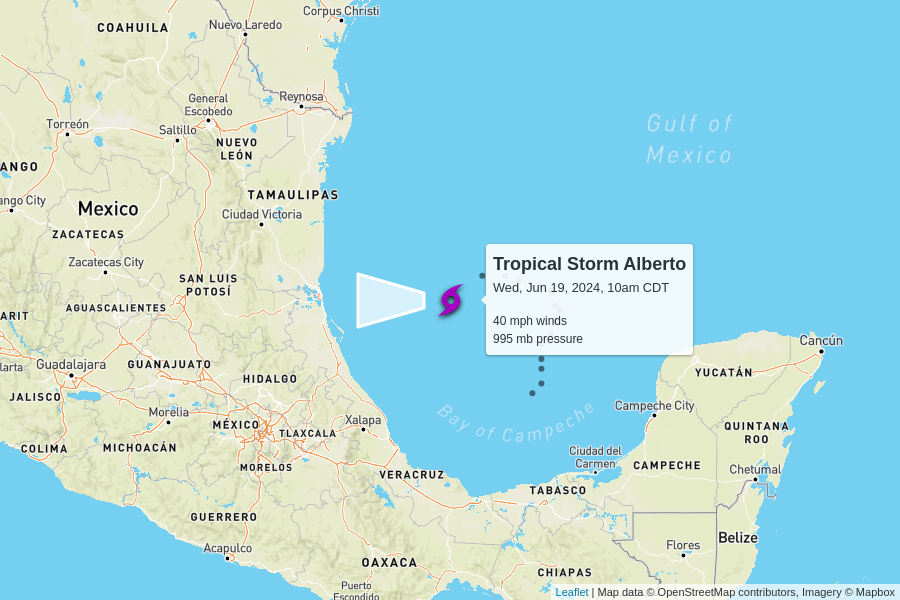
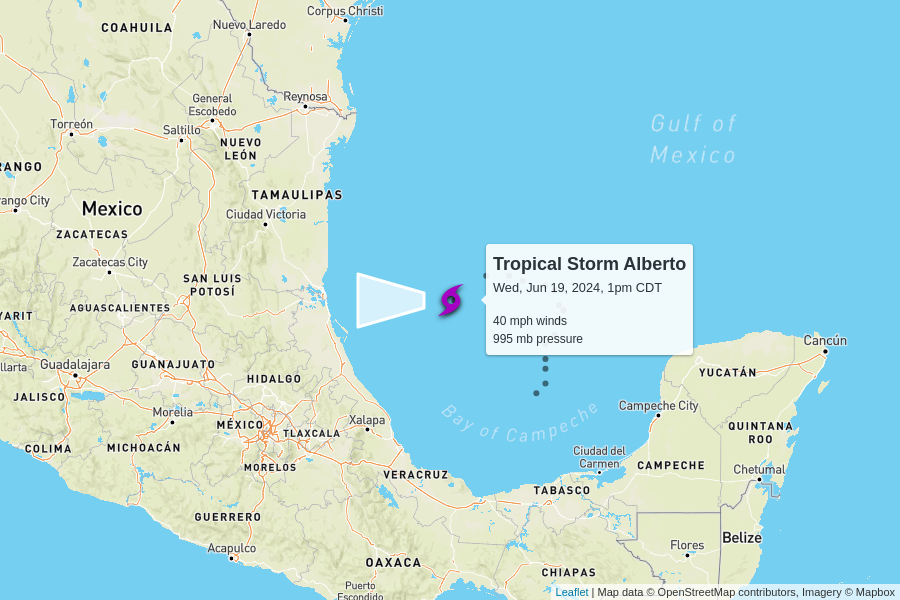
automatic update

diff --git a/docs/index.html b/docs/index.html
@@ -102,7 +102,7 @@
         <td colspan="6" class="storm category-0" >
           <h2>
             Tropical Storm Alberto
-            <p class="updated">last updated <span data-time>2024-06-19T15:00:00.000Z</span></p>
+            <p class="updated">last updated <span data-time>2024-06-19T18:00:00.000Z</span></p>
           </h2>
         </td>
       </tr>
@@ -118,7 +118,7 @@
       <tr>
         <td class="spacer"></td>
         <td>40 mph<br>0 mph since last update</td>
-        <td>995 mb<br>-2 mb since last update</td>
+        <td>995 mb<br>0 mb since last update</td>
         <td>
           9 mph to the west
           <br/>
